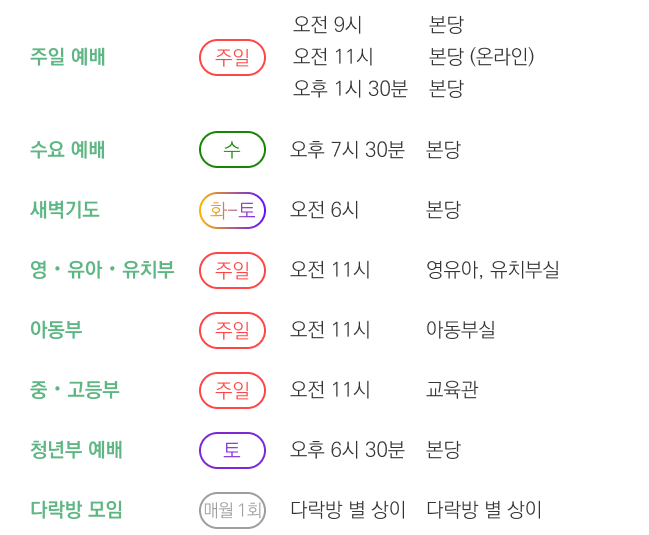
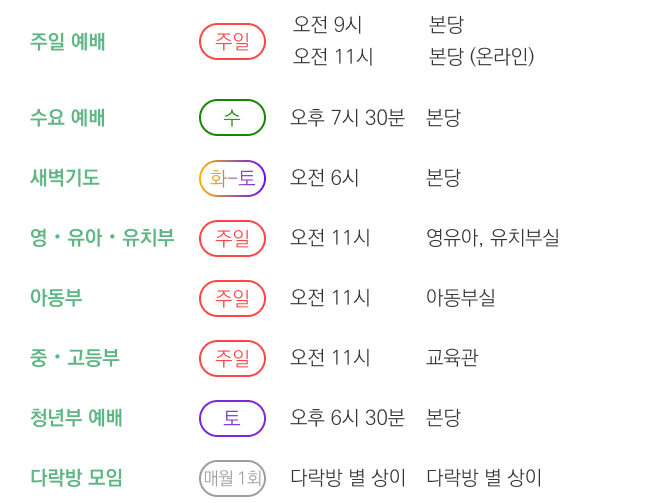
Update 2026 Feb

diff --git a/src/Hero.js b/src/Hero.js
@@ -7,12 +7,12 @@ const HeroContainer = Styled.div`
   display: flex;
   align-items: center;
   justify-content: flex-start;
-  max-height: ${props => props.visible ? '800px' : '0px'};
+  max-height: ${(props) => (props.visible ? "800px" : "0px")};
   overflow: hidden;
-  transition: max-height ${props => props.transitionTime}ms cubic-bezier(.7,0,.3,1);
-  opacity: ${props => props.visible ? '1' : '0'};
+  transition: max-height ${(props) => props.transitionTime}ms cubic-bezier(.7,0,.3,1);
+  opacity: ${(props) => (props.visible ? "1" : "0")};
   transition-property: max-height, opacity;
-  transition-duration: ${props => props.transitionTime}ms;
+  transition-duration: ${(props) => props.transitionTime}ms;
 `;
 
 const HeroContent = Styled.div`
@@ -73,7 +73,6 @@ function Hero({ heroImage, visible = true, transitionTime = 1000 }) {
           <div style={{ marginLeft: "15px" }}>
             <div style={subText}>1부 | 오전 9:00</div>
             <div style={subText}>2부 | 오전 11:00</div>
-            <div style={subText}>3부 | 오후 1:30</div>
           </div>
         </div>
         {/* <Button style={mainButton}>새 가족 등록</Button> */}

diff --git a/src/Education/EducationTable.js b/src/Education/EducationTable.js
@@ -121,7 +121,7 @@ const educationData = [
       "아동부는 Grade 1부터 Grade 6까지의 어린이들이 함께 모이는 신앙 공동체입니다.",
     time: "매주 주일 오전 11시",
     location: "1층 아동부실",
-    leader: "유푸름 전도사, 문정란 부장, 김보영 차장",
+    leader: "최요한 목사, 문정란 부장, 김보영 차장",
     people: "김사랑 남궁하민 신예빈 이재훈 이진희 전인숙 정민재 조일조 최진",
   },
   {
@@ -141,9 +141,8 @@ const educationData = [
     title: "청년부",
     description: "청년들이 함께 모이는 신앙 공동체입니다.",
     time: "매주 토요일 오후 6시 30분",
-    location: "1층 아동부실",
-    leader: "최요한 목사, 신원호 부장, 김사성 간사, 문지혜 간사",
-    people: "김성민 손예지 이우송 최다은",
+    location: "본당",
+    leader: "최요한 목사",
   },
   {
     id: 5,

diff --git a/src/Intro/Pastors.js b/src/Intro/Pastors.js
@@ -2,7 +2,6 @@ import Grid from "@mui/material/Unstable_Grid2";
 import pastor_yh from "../images/pastor_yh.jpg";
 import pastor_jy from "../images/pastor_jy.jpg";
 import pastor_sj from "../images/pastor_sj.jpeg";
-import pastor_pr from "../images/pastor_pr.jpeg";
 import {
   Container,
   Label,
@@ -16,7 +15,6 @@ const Pastors = () => {
     { name: "최요한 목사(행정, 청년부)", img: pastor_yh },
     { name: "유지영 목사(유아, 유치부)", img: pastor_jy },
     { name: "이수지 전도사", img: pastor_sj },
-    { name: "유푸름 전도사", img: pastor_pr },
   ];
 
   const getCards = (ps) => {

diff --git a/src/Service/ServiceIntro.js b/src/Service/ServiceIntro.js
@@ -89,9 +89,6 @@ const ServiceIntro = () => {
             </a>
           </div>
         </ServiceInfoLine>
-        <ServiceInfoLine>
-          • Grace Central Church: Sunday Worship Service 1 pm
-        </ServiceInfoLine>
       </div>
       <ImageContainer>
         <StyledImage src={ServiceTime} />
